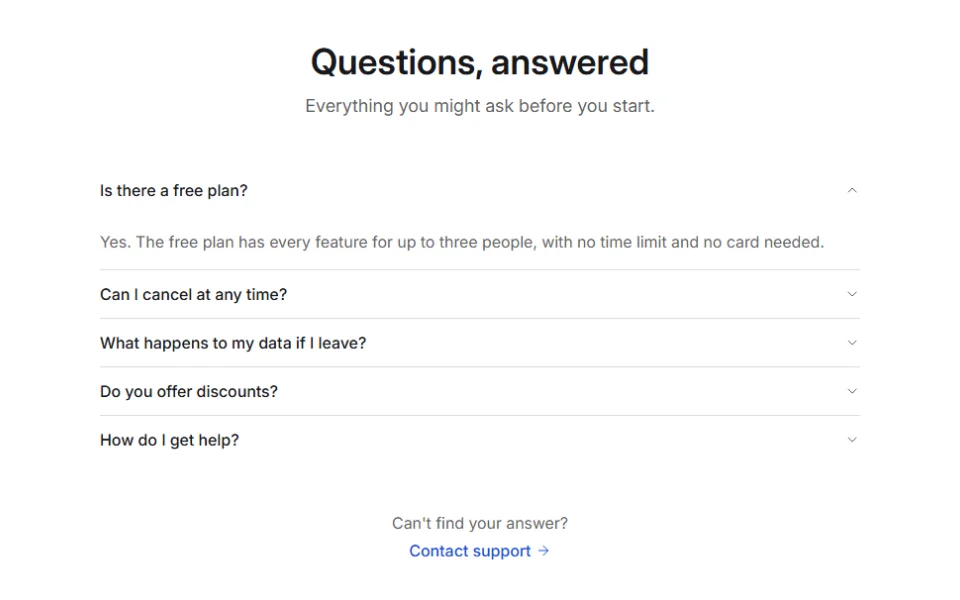
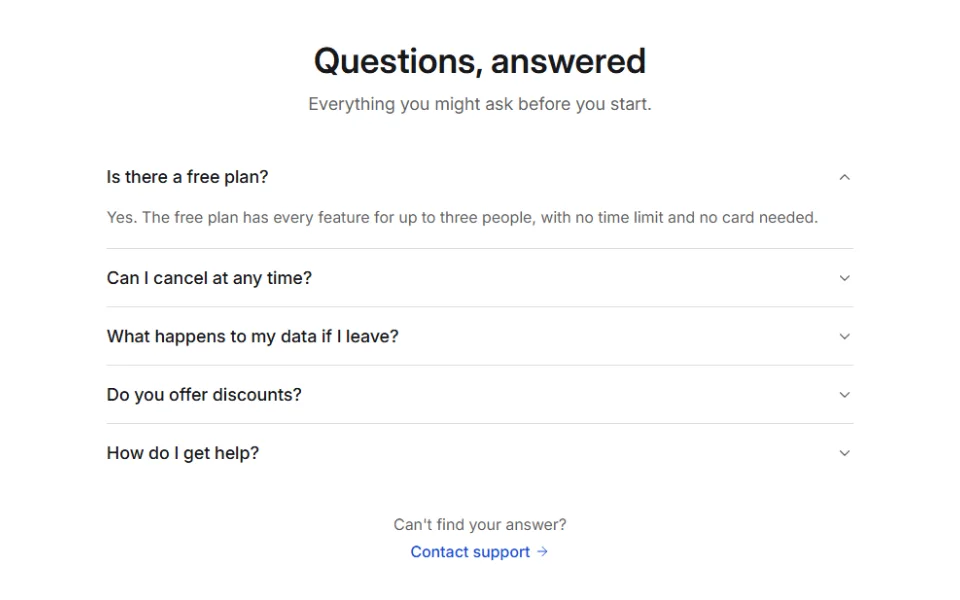
Flush accordion answers start under their question; FAQ to the design
A Flush accordion's content has no top padding: with no box around it, the question's own
padding is the space between (it was that plus 16-20px). FAQ: the large size again (59px rows,
the design's 57), and 32px from the intro to the first question.

diff --git a/src/IzzyBlazor.Core/Styles/components/disclosure.css b/src/IzzyBlazor.Core/Styles/components/disclosure.css
@@ -87,6 +87,11 @@
     --ib-acc-px: 0;
   }
 
+  /* With no box around it, the answer starts under its question: the question's own padding is the space between. */
+  .ib-accordion-flush > .ib-accordion-item > .ib-accordion-panel {
+    padding-top: 0;
+  }
+
   .ib-accordion-trigger {
     display: flex;
     align-items: center;
